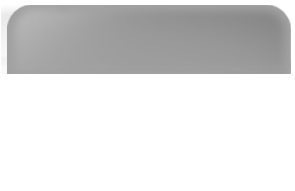
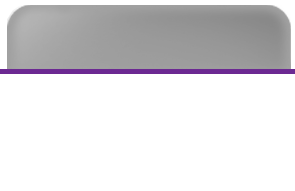
Ajustes en estilos para promociones, footer y móviles

Changed region(s): [[0.0, 0.3403, 1.0, 0.3927]]

diff --git a/evento/static/evento/stylesheets/screen-bfr.css b/evento/static/evento/stylesheets/screen-bfr.css
@@ -1174,8 +1174,9 @@ section.wrapp .container .row .destacados ul li figure .overlay p, section.wrapp
 section.wrapp .container .row .destacados ul li figure .overlay a, section.wrapp .container .row .no-destacados ul li figure .overlay a {
   color: white;
   font-family: "Conv_MyriadPro-Bold";
-  font-size: 0.938em;
+  font-size: 1.1em;
   text-transform: uppercase;
+  letter-spacing: 0.1em;
 }
 /* line 773, ../sass/screen.scss */
 section.wrapp .container .row .destacados ul li figure .overlay .marca, section.wrapp .container .row .no-destacados ul li figure .overlay .marca {
@@ -1279,6 +1280,10 @@ section.wrapp .container .row .no-destacados ul li article .desc .ahora {
     color: #683a8c;
     font-family: "oswaldregular";
     font-size: 1.6em;
+}
+
+section.wrapp .container .row .no-destacados ul li:hover article .desc .ahora {
+	color: #fff;
 }
 section.wrapp .container .row .destacados ul li:hover article .desc .ahora {
   color: #fff;
@@ -1498,6 +1503,10 @@ section.wrapp .container .row .no-destacados ul li article {
   background-color: #f8f8f8;
   height: 105px;
 }
+
+section.wrapp .container .row .no-destacados ul li:hover article {
+	background-color: #000;
+}
 @media screen and (max-width: 1007px) {
   /* line 983, ../sass/screen.scss */
   section.wrapp .container .row .no-destacados ul li article {
@@ -1533,6 +1542,9 @@ section.wrapp .container .row .no-destacados ul li article {
 section.wrapp .container .row .no-destacados ul li article .desc {
   color: #888888;
 }
+section.wrapp .container .row .no-destacados ul li:hover article .desc {
+	color: #d5d5d5;
+}
 @media screen and (max-width: 992px) {
   /* line 1008, ../sass/screen.scss */
   section.wrapp .container .row .no-destacados ul li article .desc {
@@ -1555,6 +1567,9 @@ section.wrapp .container .row .no-destacados ul li article .desc p {
   color: #000000;
   font-family: sans-serif;
   height: 22px;
+}
+section.wrapp .container .row .no-destacados ul li:hover article .desc p {
+	color: #d5d5d5;
 }
 @media screen and (max-width: 992px) {
   /* line 1019, ../sass/screen.scss */
@@ -1611,7 +1626,7 @@ section.wrapp .container .row .no-destacados ul li.descuento article .porcentaje
   }
 }
 
-/*boton ir ofertas visibilidad solo en moviles
+/*boton ir ofertas visibilidad solo en moviles*/
 section.wrapp .container .row .no-destacados ul li.descuento article .ofertaMobile {
   font-family: sans-serif;
   color: #3A8819;
@@ -1627,7 +1642,7 @@ section.wrapp .container .row .destacados ul li.descuento article .ofertaMobile 
 @media screen and (max-width: 768px) {
   section.wrapp .container .row .destacados ul li.descuento article .ofertaMobile {
   display: none;
-}*/
+}
 
 /* line 1070, ../sass/screen.scss */
 .publi {
@@ -1759,7 +1774,7 @@ footer .sponsor .social .tw {
 }
 /* line 1161, ../sass/screen.scss */
 footer .terminos {
-  background-color: #5A3179;
+  background-color: #3A0354;
   font-family: sans-serif;
   font-size: 0.7em;
   line-height: 1.9em;
@@ -3145,4 +3160,22 @@ header .container .row.head:before {
 }
 .logo_fixed_menu .container {
     width: 1200px !important;
+}
+
+.ofertaDesktop {
+	background: -webkit-gradient(linear, 11% 100%, 10% 21%, from(#3C6400), to(#72C400));
+	text-align: center;
+	width: 180px;
+	padding: 9px 32px;
+}
+
+.Footer_last {
+	background-color: #3A0354;
+	font-family: sans-serif;
+	line-height: 1.9em;
+	font-size: 0.7em;
+	margin: 0;
+	text-transform: uppercase;
+	color: #FFF;
+	text-align: center;
 }

diff --git a/evento/service/evento/application/views/template/footer.php b/evento/service/evento/application/views/template/footer.php
@@ -38,10 +38,12 @@
         <span>Loencontraste.com es una marca registrada de El Tiempo Casa Editorial. Prohibido su uso sin autorización.</span>
         <span>© 2015 - Loencontraste.com Todos los derechos reservados .</span>
         <span>Entidad de protección al consumidor <a href="http://www.sic.gov.co" target="_blank">www.sic.gov.co</a></span>
-        <span><?php echo EVE_LEGAL;?></span>
       </div>
     </div>
   </div>
+<div class="row Footer_last">
+   <span><?php echo EVE_LEGAL;?></span>
+</div>
 </footer>
 
 <div class="modal fade" id="terminos" style="z-index:2000">
